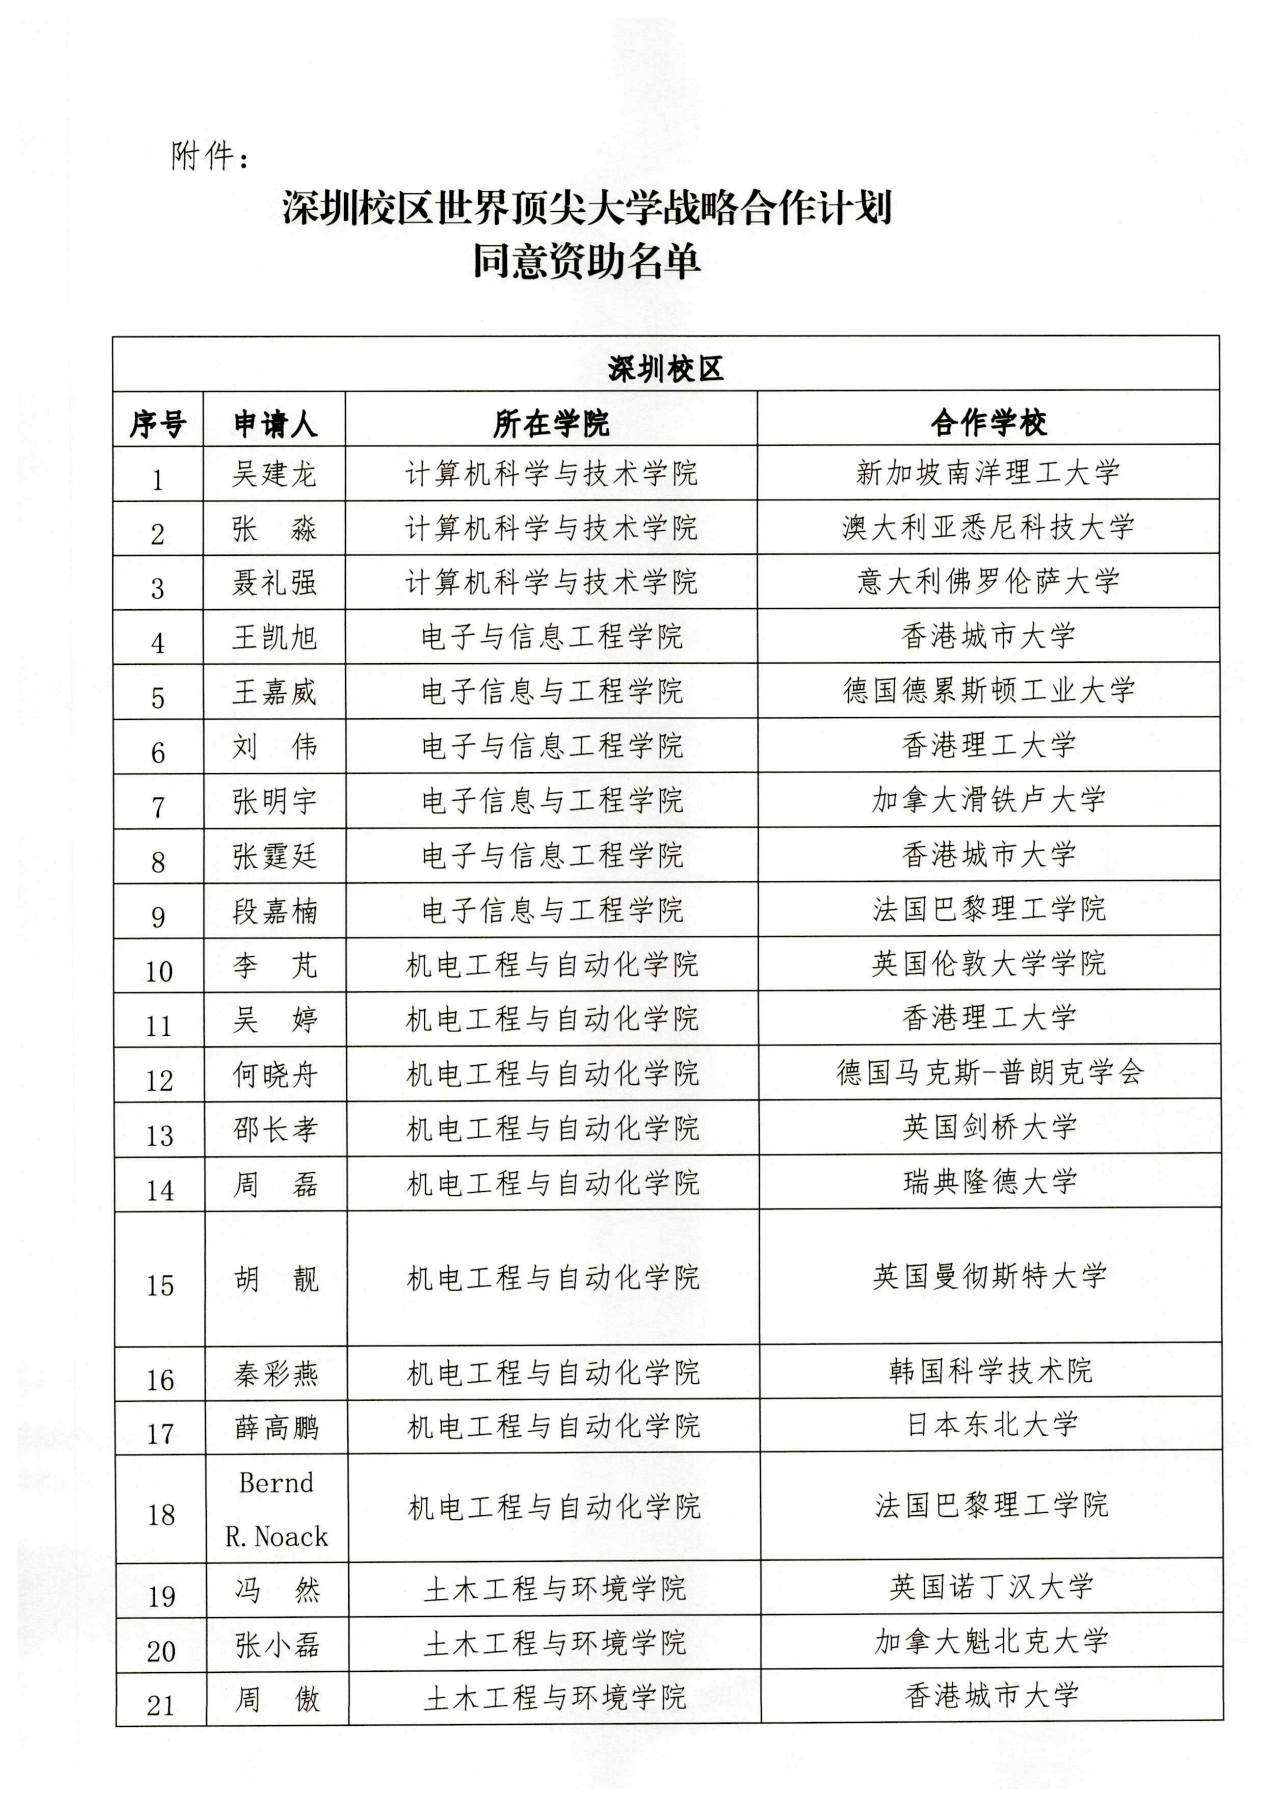
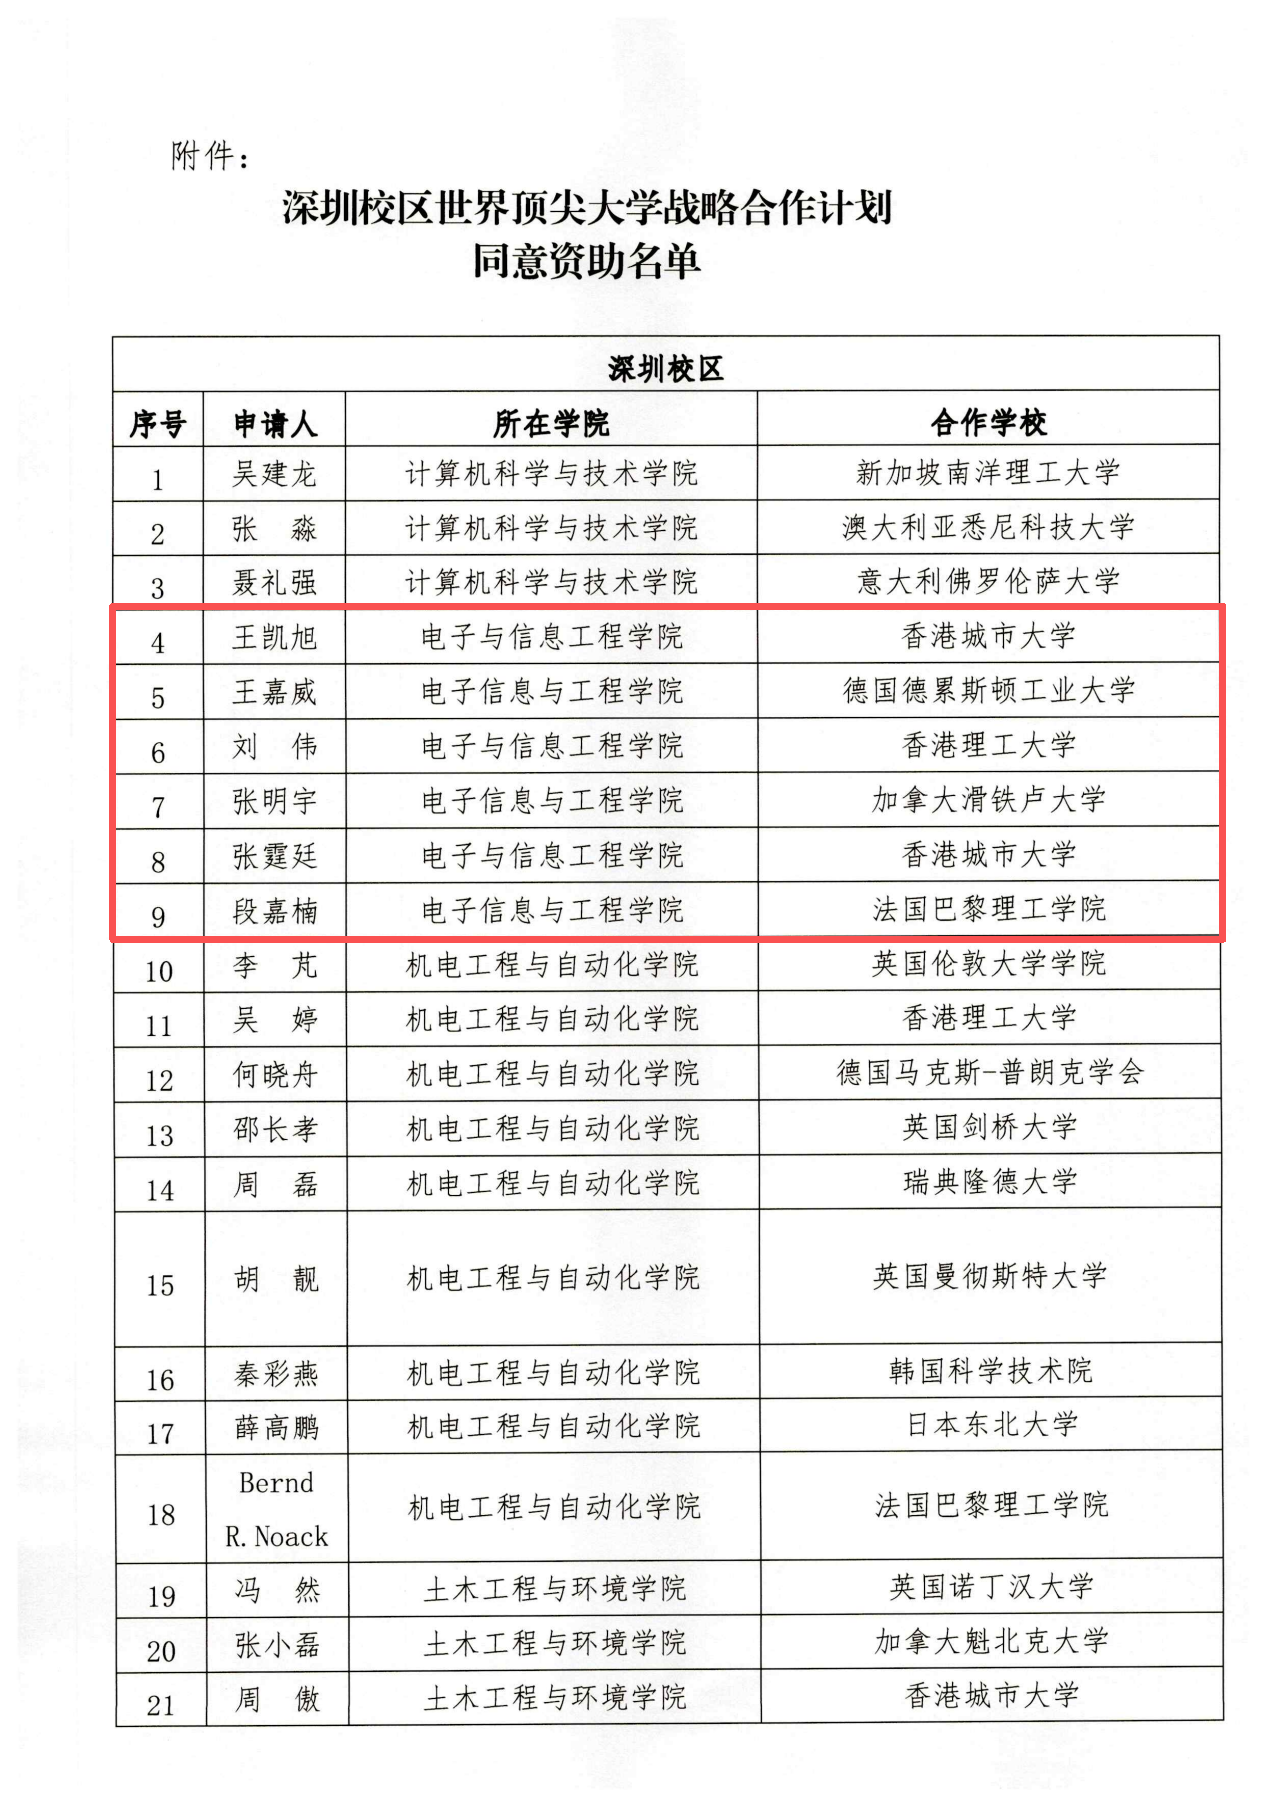
增加链接跳转

Changed region(s): [[0.0616, 0.3411, 0.985, 0.5271], [0.0923, 0.3101, 0.9542, 0.3411]]

diff --git a/_pages/teachingachievement.md b/_pages/teachingachievement.md
@@ -227,7 +227,7 @@ redirect_from:
       <img src="/assets/images/cooperation_international/cooperation_plan.png" alt="合作">
       <div class="caption">
         <a href="https://mp.weixin.qq.com/s?__biz=MzI1MTQyMDQ3MQ==&mid=2247488149&idx=1&sn=0c3dbd4f9d6fe39568fd91859c79ded4&chksm=e9f218cdde8591dbc61dbff9ba7eb2a7c635cf9b9d496a30457d6863eb92b3fc37d48bd04581&scene=27" target="_blank" class="caption-link">
-        韩国汉阳大学合作办学项目
+        顶尖大学合作计划
         </a>
       </div>
     </div>
